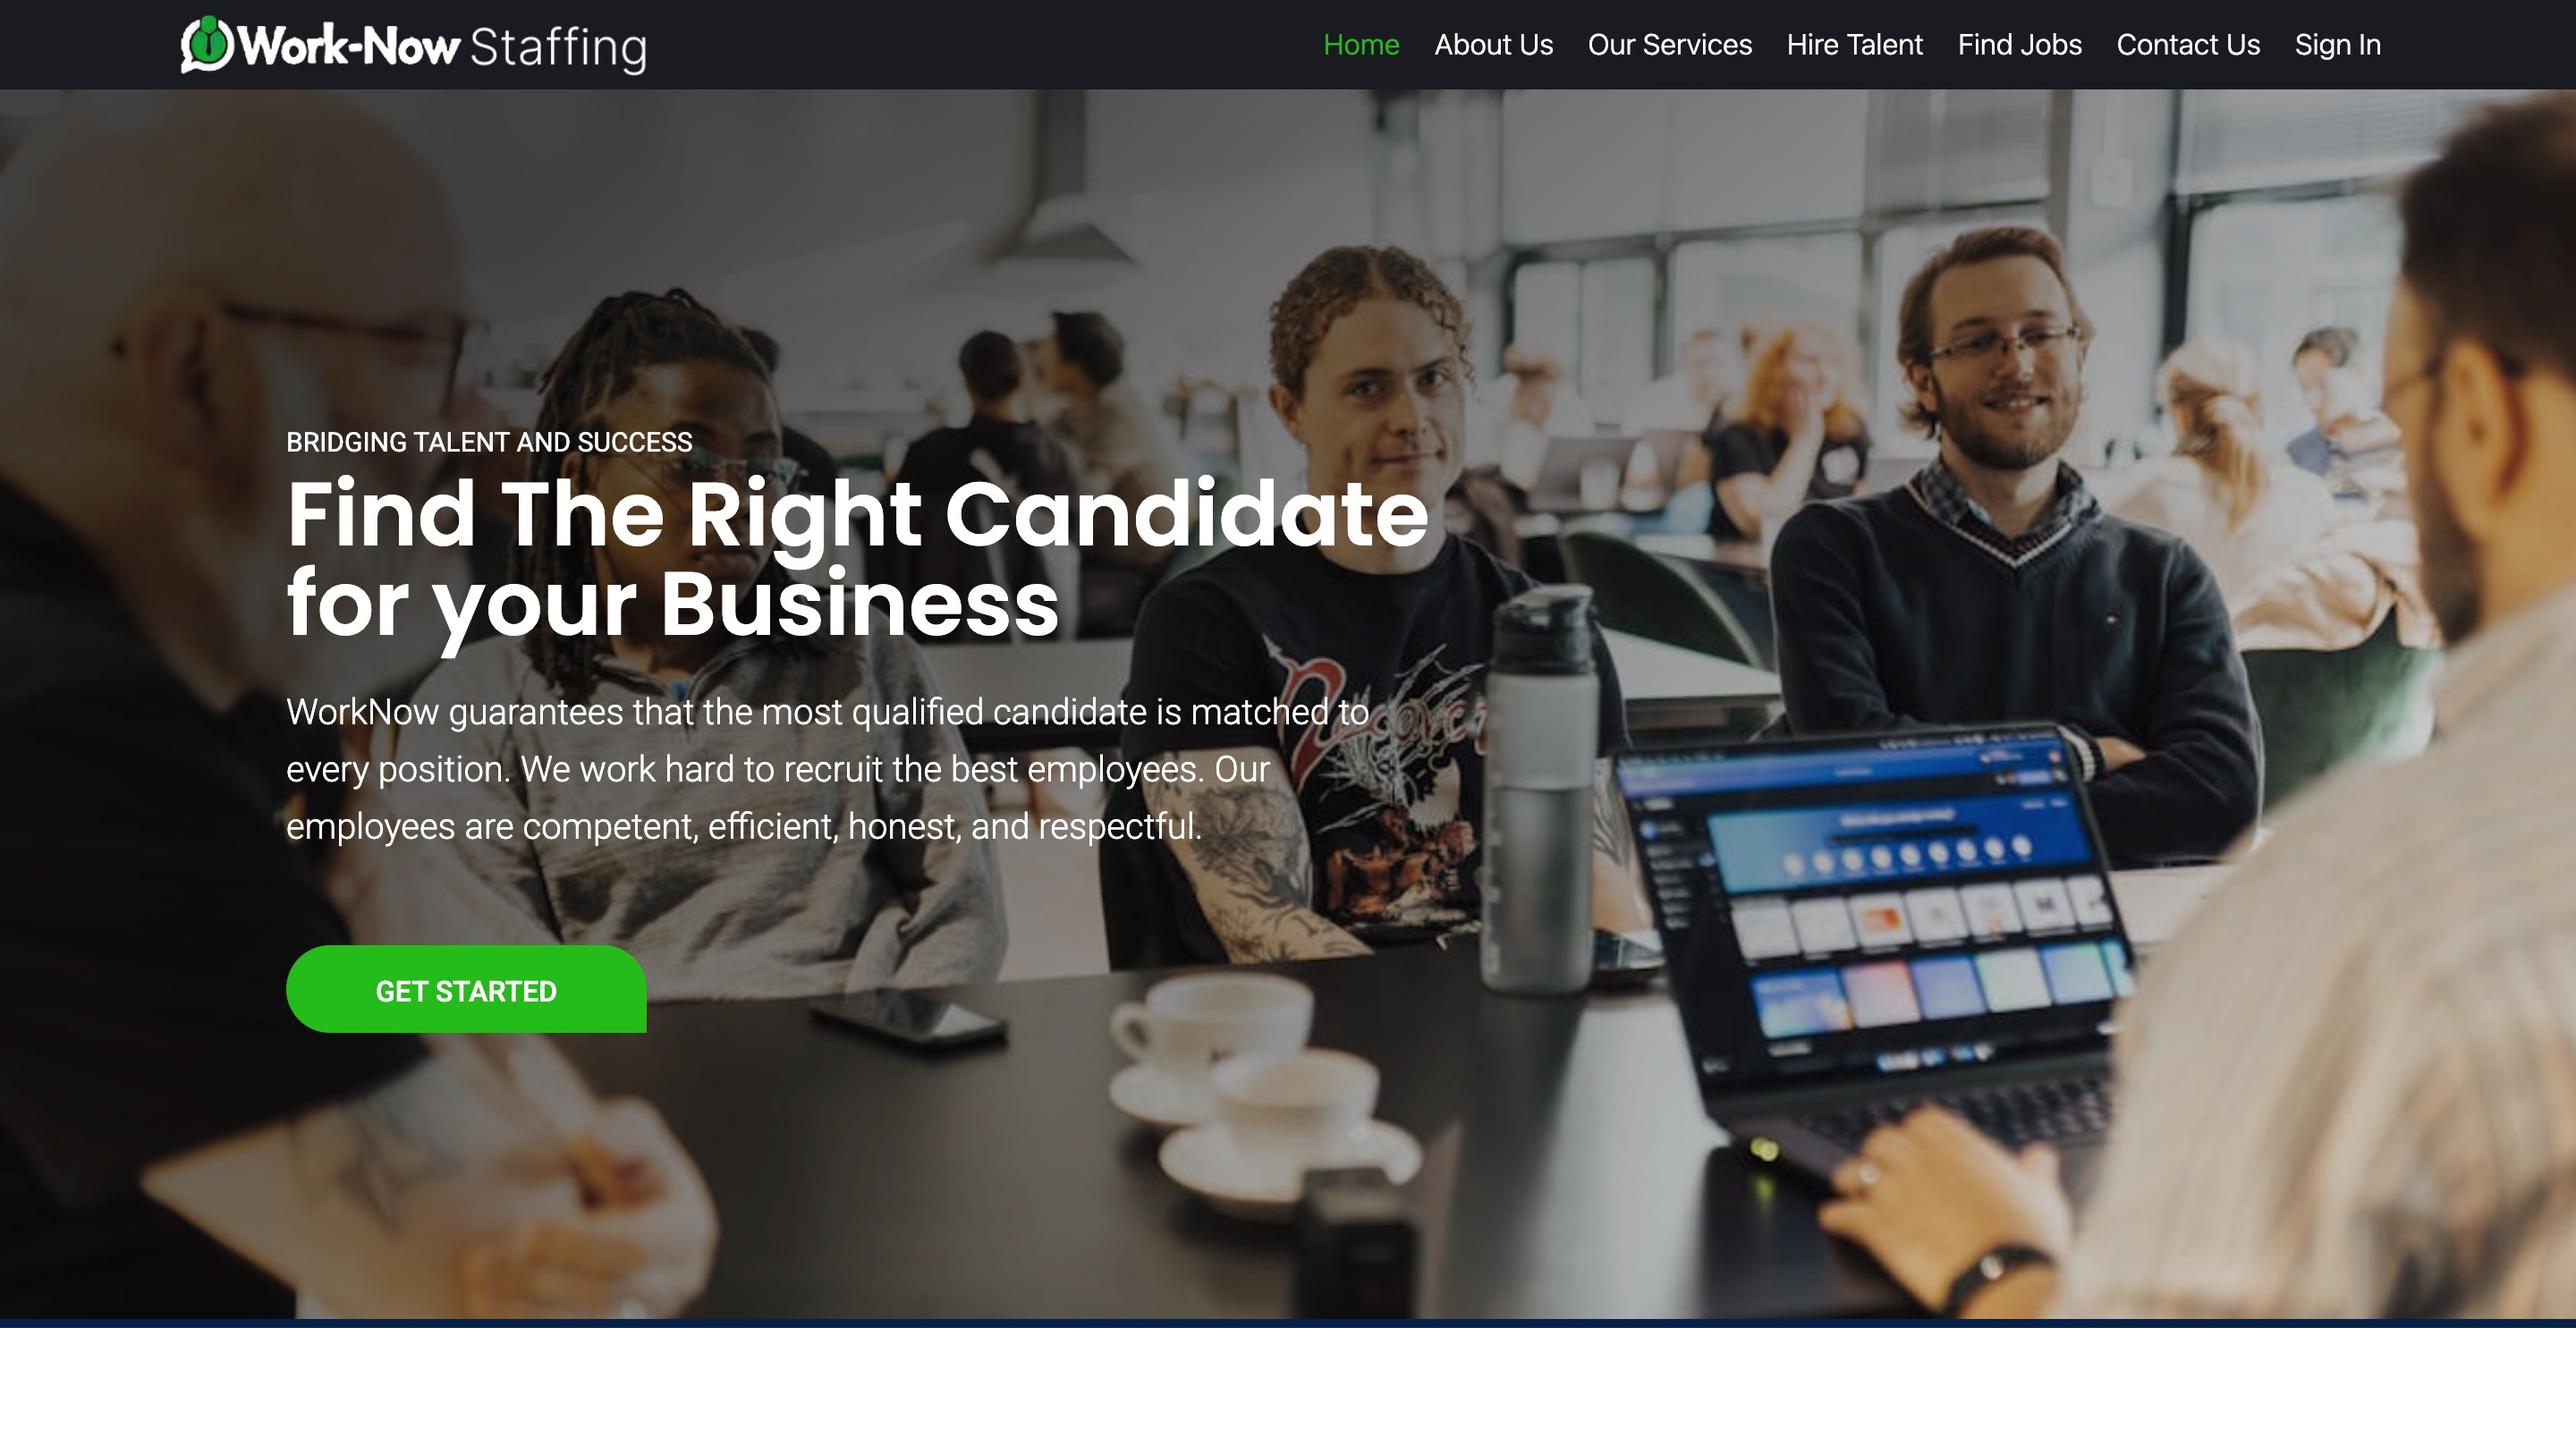
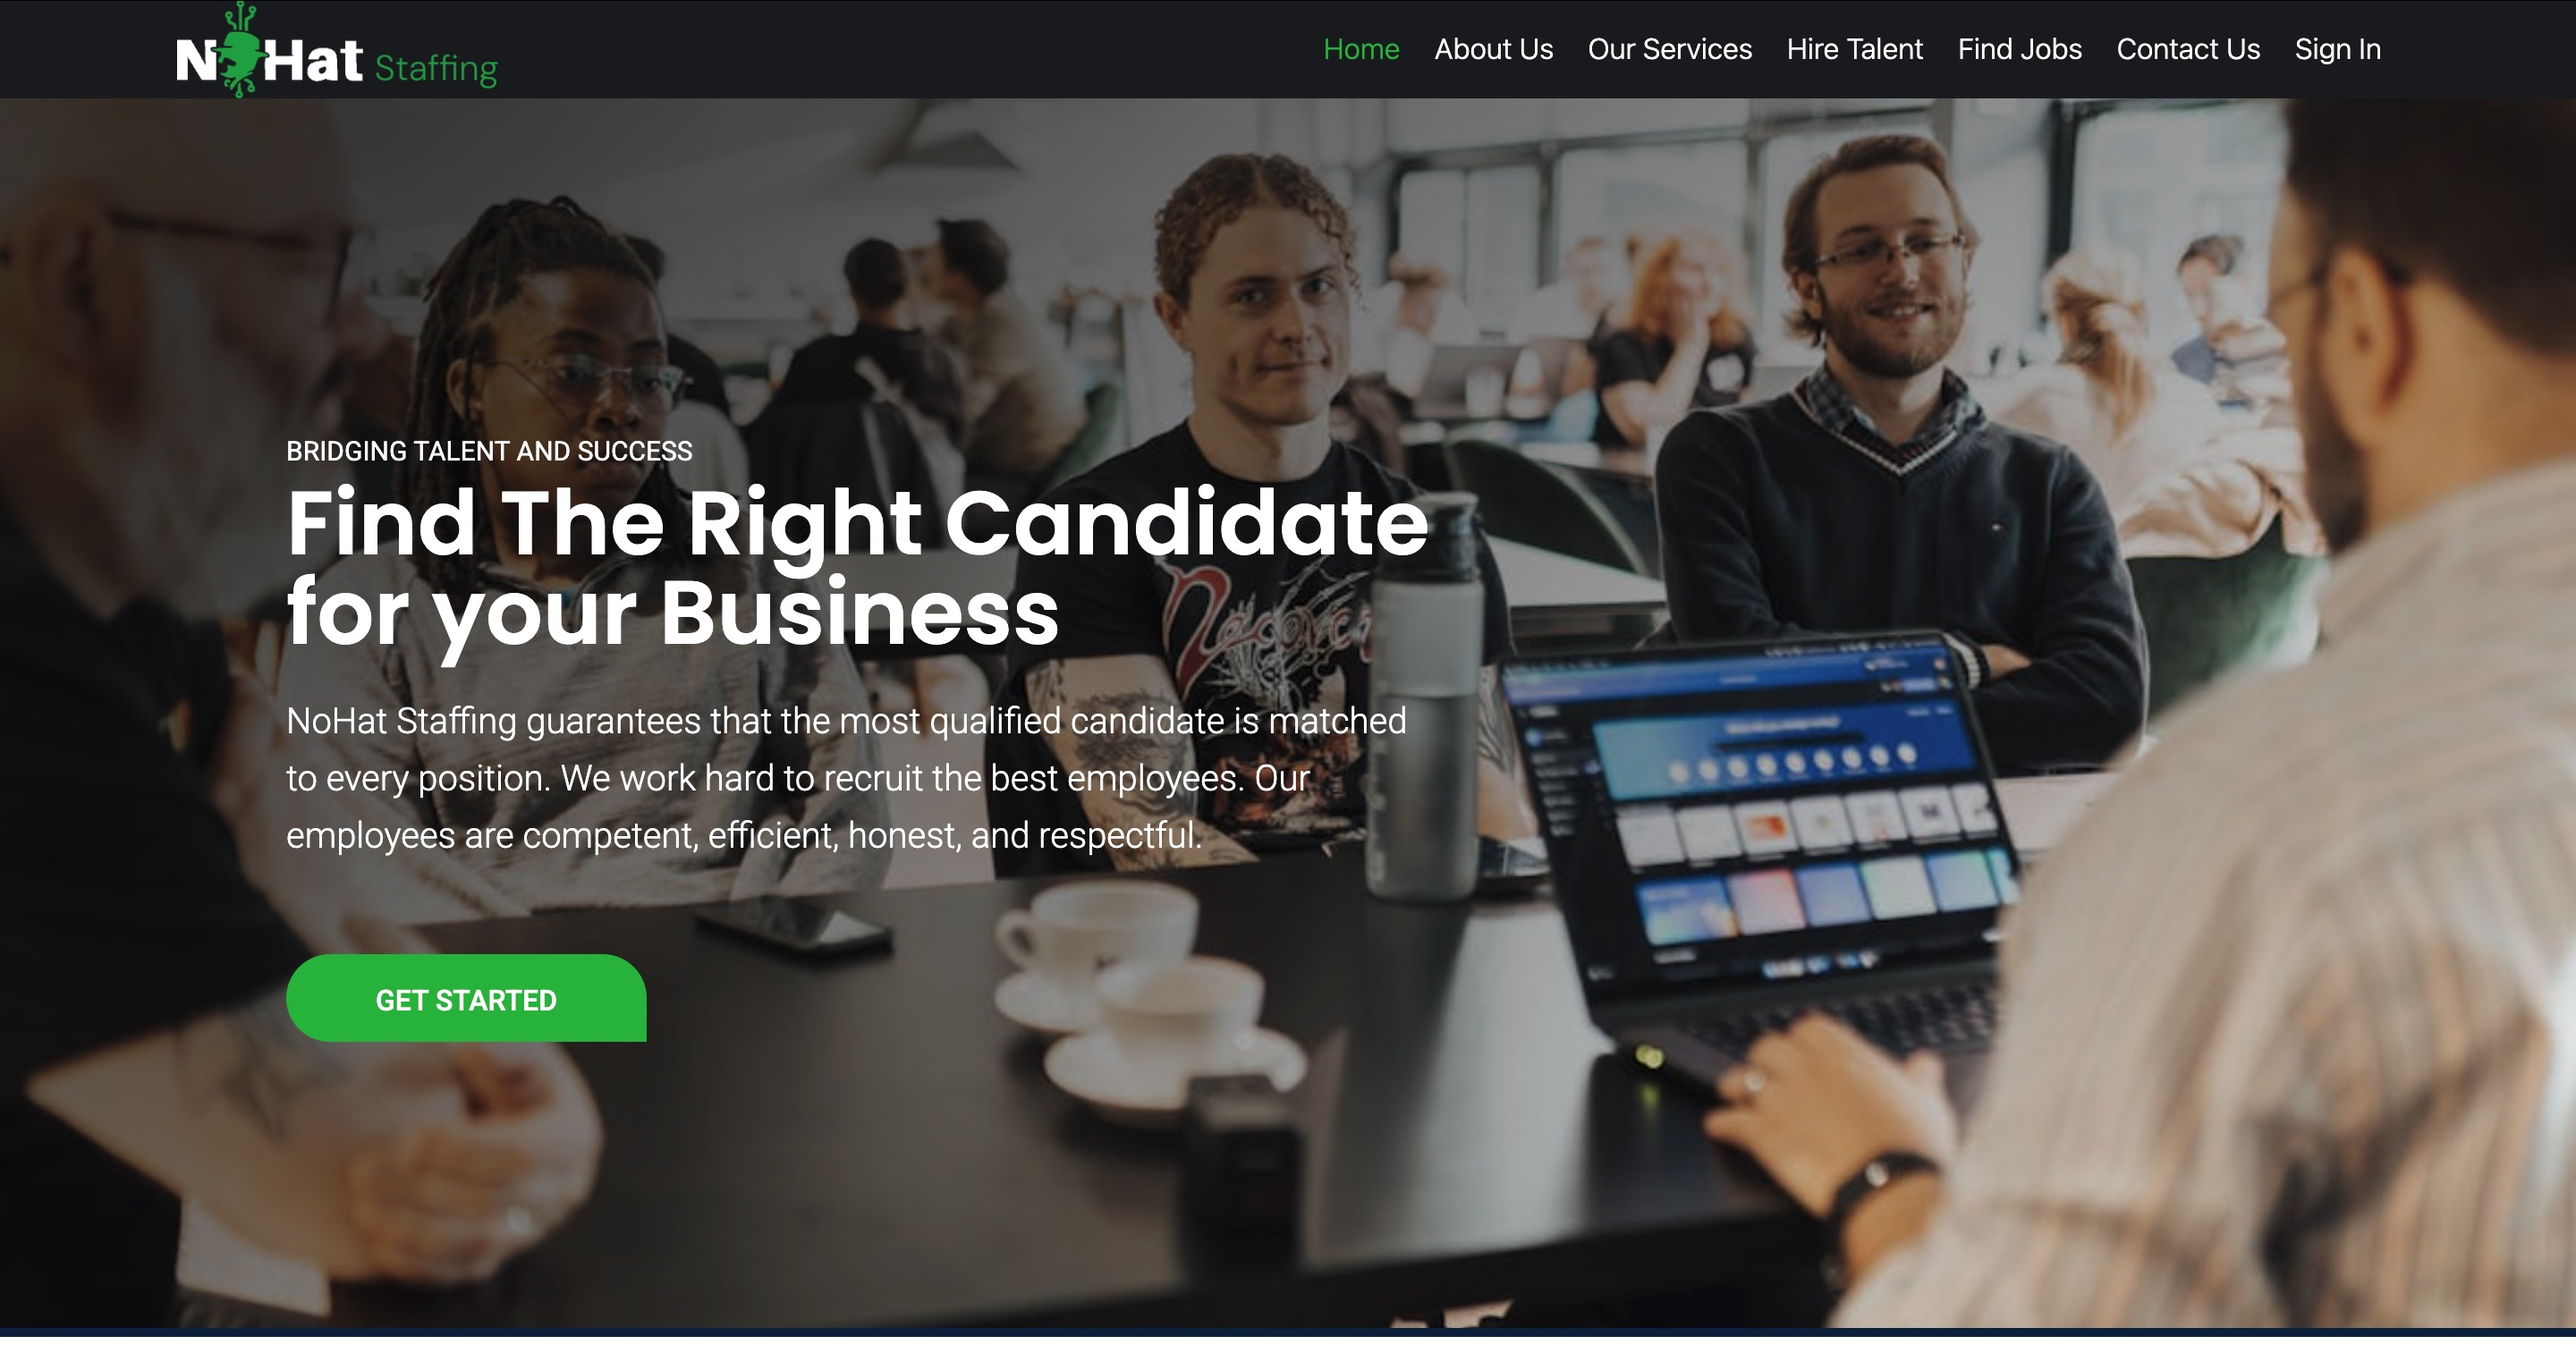
feat: update component styles and content for improved layout and navigation

diff --git a/src/components/Projects.tsx b/src/components/Projects.tsx
@@ -3,8 +3,8 @@ import Image from "next/image"
 
 function Projects() {
     return (
-        <section id="projects" className="p-4 sm:p-7 bg-[url(/images/pexels-earano-1330218.jpg)] bg-cover bg-no-repeat bg-center">
-            <div className="p-10">
+        <section id="projects" className="py-4 sm:p-7 bg-[url(/images/pexels-earano-1330218.jpg)] bg-cover bg-no-repeat bg-center">
+            <div className="py-10 px-5">
                 <h1 className="text-center text-4xl font-bold mb-5">Recent Projects</h1>
                 <p className="text-center"></p>
                 <div className="grid grid-cols-1 sm:grid-cols-4 grid-rows-2 gap-3 p-5">
@@ -12,13 +12,13 @@ function Projects() {
                         <div className="max-w-sm rounded overflow-hidden shadow-lg">
                             <Image className="w-full h-48" src="/images/wns/1.jpg" alt="Work-now staffing image" width={310} height={100} />
                             <div className="px-6 pt-0 pb-4">
-                                <div className="font-bold text-xl mb-2 text-black">Work-Now Staffing</div>
+                                <div className="font-bold text-xl mb-2 text-black">NoHat Staffing</div>
                                 <p className="text-gray-700 text-base">
-                                    Developed and maintained the Work-Now Staffing website, a platform connecting businesses with qualified staff.
+                                    Developed and maintained the NoHat Staffing website, a platform connecting businesses with qualified staff.
                                 </p>
                             </div>
                             <div className="px-6 pt-2 pb-6 text-right">
-                                <a href="https://work-nowstaffing.com/" target="_blank" rel="noopener noreferrer" className="text-white bg-gray-800 hover:bg-black focus:ring-4 focus:outline-none focus:ring-blue-300 font-medium text-sm px-5 py-2 rounded-full text-center inline-flex items-center dark:bg-blue-600 dark:hover:bg-blue-700 dark:focus:ring-blue-800">
+                                <a href="https://nohatstaffing.com/" target="_blank" rel="noopener noreferrer" className="text-white bg-gray-800 hover:bg-black focus:ring-4 focus:outline-none focus:ring-blue-300 font-medium text-sm px-5 py-2 rounded-full text-center inline-flex items-center dark:bg-blue-600 dark:hover:bg-blue-700 dark:focus:ring-blue-800">
                                     Visit Site
                                     <svg className="rtl:rotate-180 w-3.5 h-3.5 ms-2" aria-hidden="true" xmlns="http://www.w3.org/2000/svg" fill="none" viewBox="0 0 14 10">
                                         <path stroke="currentColor" strokeLinecap="round" strokeLinejoin="round" strokeWidth="2" d="M1 5h12m0 0L9 1m4 4L9 9" />
@@ -27,6 +27,7 @@ function Projects() {
                             </div>
                         </div>
                     </div>
+
                     <div className="col bg-white rounded-3xl">
                         <div className="max-w-sm rounded overflow-hidden shadow-lg">
                             <Image className="w-full h-48 pb-2" src="/images/cgf/1.jpg" alt="Sunset in the mountains" width={300} height={100} />
@@ -46,6 +47,7 @@ function Projects() {
                             </div>
                         </div>
                     </div>
+
                     <div className="col bg-white rounded-3xl">
                         <div className="max-w-sm rounded overflow-hidden shadow-lg">
                             <Image className="w-full h-48" src="/images/erm/1.jpg" alt="Sunset in the mountains" width={300} height={100} />
@@ -65,6 +67,7 @@ function Projects() {
                             </div>
                         </div>
                     </div>
+
                     <div className="col bg-white rounded-3xl">
                         <div className="max-w-sm rounded overflow-hidden shadow-lg">
                             <Image className="w-full h-48" src="/images/nbc/1.jpg" alt="Sunset in the mountains" width={300} height={100} />
@@ -84,7 +87,6 @@ function Projects() {
                             </div>
                         </div>
                     </div>
-
 
                     <div className="col bg-white rounded-3xl">
                         <div className="max-w-sm rounded overflow-hidden shadow-lg">
@@ -125,6 +127,7 @@ function Projects() {
                             </div>
                         </div>
                     </div>
+
                     <div className="col bg-white rounded-3xl">
                         <div className="max-w-sm rounded overflow-hidden shadow-lg">
                             <Image className="w-full h-45" src="/images/spl/1.png" alt="Sunset in the mountains" width={300} height={100} />
@@ -144,6 +147,7 @@ function Projects() {
                             </div>
                         </div>
                     </div>
+
                     <div className="col bg-white rounded-3xl">
                         <div className="max-w-sm rounded overflow-hidden shadow-lg">
                             <Image className="w-full h-48" src="/images/hbm/1.jpg" alt="Sunset in the mountains" width={300} height={100} />
@@ -164,6 +168,7 @@ function Projects() {
                         </div>
                     </div>    
                 </div>
+
                 <div className="text-center">
                     <a href="https://github.com/yish-mael" target="_blank" className="text-white bg-gray-800 hover:bg-black focus:ring-4 focus:outline-none focus:ring-blue-300 font-medium text-sm px-5 py-2 rounded-full text-center inline-flex items-center dark:bg-blue-600 dark:hover:bg-blue-700 dark:focus:ring-blue-800">
                         More Projects on GitHub

diff --git a/src/components/Hero.tsx b/src/components/Hero.tsx
@@ -1,12 +1,13 @@
 import React from 'react'
 import Image from 'next/image'
+import Link from 'next/link'
 
 function Hero() {
 
   const imageLoader = () => `https://ui-avatars.com/api/?name=A+T`
 
   return (
-    <section id="home" className="p-4 sm:p-0">
+    <section id="home" className="py-4 px-1 sm:p-0">
 
       <div className="relative flex items-center justify-center h-screen mb-12 overflow-hidden">
         <div className="relative z-30 text-white">
@@ -16,7 +17,7 @@ function Hero() {
               <h1 className="text-6xl font-light py-1">Software Engineer</h1>
               <p className="text-2xl mt-10 ">Engineering Scalable, Secure, and High-Performance Applications.</p>
               <button className="px-5 py-2 mt-7 rounded-full text-black bg-white flex mx-auto">
-                  <span>Let&rsquo;s Talk</span>
+              <Link className="px-2" href="#contact"><span>Let&rsquo;s Talk</span></Link>
                   &nbsp;
                   <svg xmlns="http://www.w3.org/2000/svg" width="20" height="20" viewBox="0 0 20 20" fill="none" stroke="currentColor" strokeWidth="2" strokeLinecap="round" strokeLinejoin="round" className="lucide lucide-arrow-up-right">
                       <path d="M7 7h10v10"></path>

diff --git a/src/components/Header.tsx b/src/components/Header.tsx
@@ -3,20 +3,18 @@ import Link from 'next/link'
 
 function Header() {
   return (
-    <header className="sticky top-0 flex justify-between bg-black px-7 py-3 text-white z-50">
+    <header className="sticky top-0 flex justify-between bg-black px-4 py-2 text-white z-50">
         <div>
-            <h1 className="font-bold text-lg">AYT</h1>
+        <Link href="#home"><h1 className="font-bold text-lg">AYT</h1></Link>
         </div>
-        <nav>
-            <Link className="px-3" href="#home">Home</Link> 
-            
+        <nav> 
             <Link className="px-3" href="#about">About</Link> 
             
             <Link className="px-3" href="#projects">Projects</Link> 
             
             <Link className="px-3" href="#experience">Experience</Link> 
             
-            <Link className="px-3" href="#contact">Contact</Link> 
+            <Link className="px-2" href="#contact">Contact</Link> 
         </nav>
     </header>
   )

diff --git a/src/components/About.tsx b/src/components/About.tsx
@@ -3,7 +3,7 @@ import Image from 'next/image'
 
 function About() {
   return (
-    <section id="about" className="px-4 sm:px-7 bg-black text-white">
+    <section id="about" className=" sm:px-7 bg-black text-white">
         <div className="px-10 py-5 ">
             <h1 className="text-center text-4xl font-bold mb-5">About Me</h1>
             <div className="grid gap-10 p-2 items-center grid-col-1 sm:grid-cols-3 sm:p-10 ">
@@ -72,7 +72,7 @@ function About() {
                     </div>
                 </div>
                 <div className="order-first sm:order-last">
-                    <Image src="/images/about-me1.jpg" className="rounded-4xl w-1000" width={400} height={500} alt="" />
+                    <Image src="/images/about-me1.jpg" className="rounded-4xl" width={3000} height={100} alt="" />
                 </div>
             </div>
         </div>    

diff --git a/src/components/Experience.tsx b/src/components/Experience.tsx
@@ -2,7 +2,7 @@ import React from 'react'
 
 function Experience() {
   return (
-    <section id="experience" className="px-4 sm:px-40 py-7 bg-black text-white">
+    <section id="experience" className="px-0 sm:px-40 py-7 bg-black text-white">
         <div className="p-10">
             <h1 className="text-center text-4xl font-bold mb-5">Experience</h1>
 

diff --git a/src/components/Contact.tsx b/src/components/Contact.tsx
@@ -2,7 +2,7 @@ import React from 'react'
 
 function Contact() {
   return (
-    <section id="contact" className="p-4 sm:p-7">
+    <section id="contact" className="py-4 sm:p-7">
         <div className="p-10">
             <h1 className="text-4xl text-center font-bold">Connect with me</h1>
         </div>

diff --git a/src/app/page.tsx b/src/app/page.tsx
@@ -7,7 +7,7 @@ import Projects from "@/components/Projects"
 
 export default function Home() {
   return (
-    <main className="relative bg-black text-white">
+    <main className="relative bg-black text-white px-0">
       <Header />
       <Hero />
       <About />
